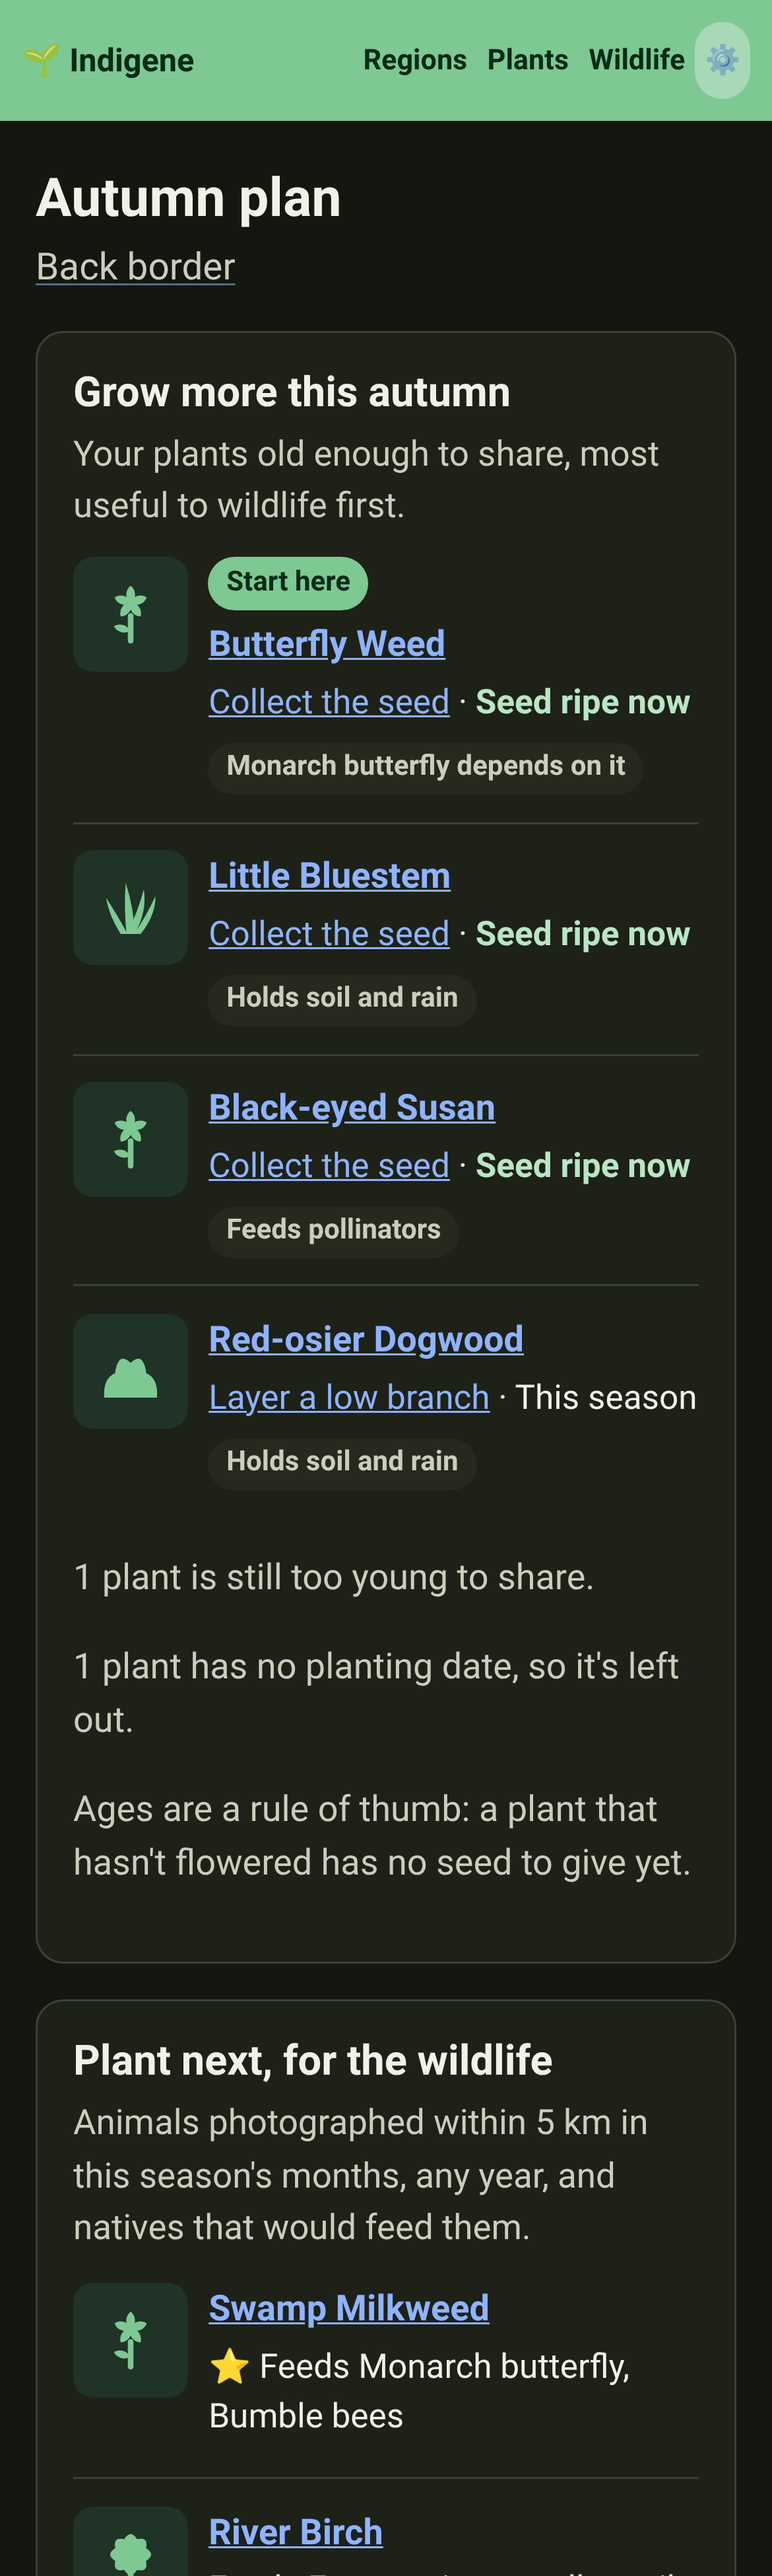
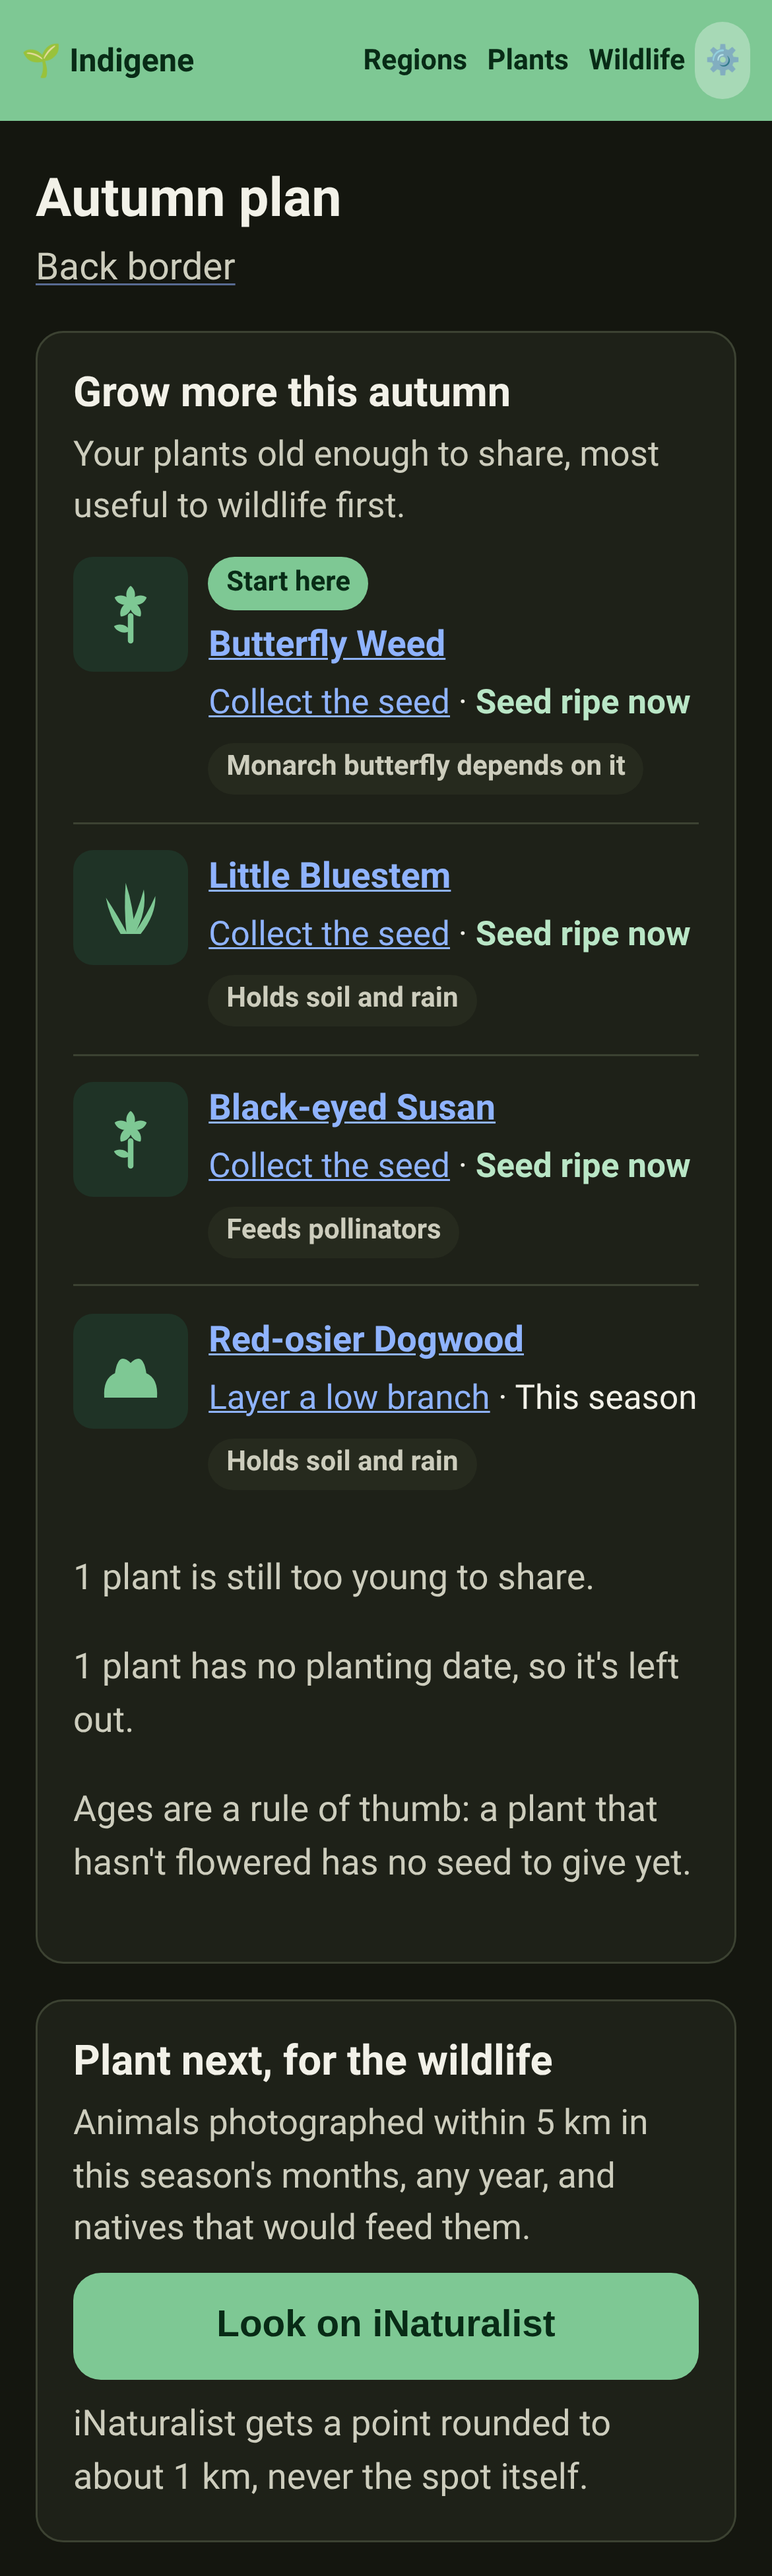
Ask iNaturalist for the season plan only on a tap
The "Plant next" card used to fill itself in when the spot's sightings card
had been given a yes. Now it waits for its own button on every visit, and
tapping it no longer turns on the sightings card's automatic lookup either.

Claude-Session: https://claude.ai/code/session_01Y3wWqWvDBnUEEg22JSBmgV

Changed region(s): [[0.0923, 0.8687, 0.9231, 1.0]]

diff --git a/app/src/components/season-plan.ts b/app/src/components/season-plan.ts
@@ -26,7 +26,7 @@ import { getWildlife } from "../lib/wildlife";
 import { t, tn, fmtNumber } from "../lib/i18n";
 import { distance } from "../lib/units";
 import { isBusy } from "../lib/inaturalist";
-import { allowLookup, lookupAllowed, SPOT_RADIUS_KM } from "../lib/spot-sightings";
+import { SPOT_RADIUS_KM } from "../lib/spot-sightings";
 import { plantsToAdd, regionAnimals, seasonMonths, seasonSightings } from "../lib/season-sightings";
 import { freshnessLine } from "./observation-ui";
 
@@ -160,7 +160,8 @@ export function renderSeasonPlan(
 
 /**
  * Natives to add for the animals photographed near the spot in this season's
- * months. Asks before it looks, with the same yes the sightings card asks for.
+ * months. Nothing goes to iNaturalist until the person taps the button, on
+ * every visit: a yes given elsewhere, or last time, doesn't count as one here.
  */
 function addCard(spot: SavedSpot, plantings: Planting[], region: RegionDef | null, roster: Plant[], season: Season): HTMLElement {
   const card = el("section", { class: "card" }, [el("h3", { style: "margin:0 0 0.3rem" }, t("grow.addTitle"))]);
@@ -177,10 +178,7 @@ function addCard(spot: SavedSpot, plantings: Planting[], region: RegionDef | nul
     el("button", {
       type: "button",
       class: "btn btn-primary btn-block",
-      onClick: () => {
-        void allowLookup(spot.id);
-        void load();
-      },
+      onClick: () => void load(),
     }, t("spot.spottedAsk")),
     el("p", { class: "hint", style: "margin:0.5rem 0 0" }, t("spot.spottedPrivacy")),
   ]);
@@ -233,9 +231,6 @@ function addCard(spot: SavedSpot, plantings: Planting[], region: RegionDef | nul
   }
 
   card.append(el("p", { class: "note", style: "margin:0 0 0.5rem;padding:0" }, t("grow.addLede", { distance: within })), intro, out);
-  void lookupAllowed(spot.id).then((ok) => {
-    if (ok) void load();
-  });
   return card;
 }
 

diff --git a/app/src/lib/season-sightings.ts b/app/src/lib/season-sightings.ts
@@ -8,9 +8,9 @@
 // still hears that monarchs come through here in September.
 //
 // Same request shape, same privacy: one species-counts call for every animal
-// at once, from a point rounded to about a kilometre, and only after the person
-// has said yes to looking for this spot (the same yes the sightings card asks
-// for). The months travel as `month=9,10,11`, which says nothing about the spot.
+// at once, from a point rounded to about a kilometre, and only when the person
+// taps to look — never on its own, and never on a yes remembered from the
+// sightings card or an earlier visit. The months travel as `month=9,10,11`, which says nothing about the spot.
 //
 // **Can, not will.** A plant that feeds an animal seen nearby is a good bet,
 // not a promise. The page says "seen near here", never "will come".

diff --git a/changelog.d/propagation-season-plan.md b/changelog.d/propagation-season-plan.md
@@ -3,10 +3,11 @@
 - **A season plan for every saved spot.** It picks the plants you've had long
   enough to share, says what to do now — collect ripe seed, divide a clump —
   and puts the ones wildlife needs most first, linked to [the how-to](https://indigene.app/planting).
-- Planting: the season plan also suggests natives to add, for the animals
-  photographed within 5 km of your spot in this season's months, on iNaturalist.
+- Planting: the season plan can also suggest natives to add, for the animals
+  photographed within 5 km of your spot this season. It asks iNaturalist only
+  when you tap to look.
 - Planting: your Saved spots open with the three most useful things to grow
   more of this season, across all of them.
 - Internal: `lib/grow-now.ts` holds the readiness, window and ranking rules
   (tested in `grow-now.test.ts`); `lib/season-sightings.ts` asks iNaturalist
-  for one species-counts call with `month=`, behind the existing per-spot yes.
+  for one species-counts call with `month=`, only on a tap, never automatically.
